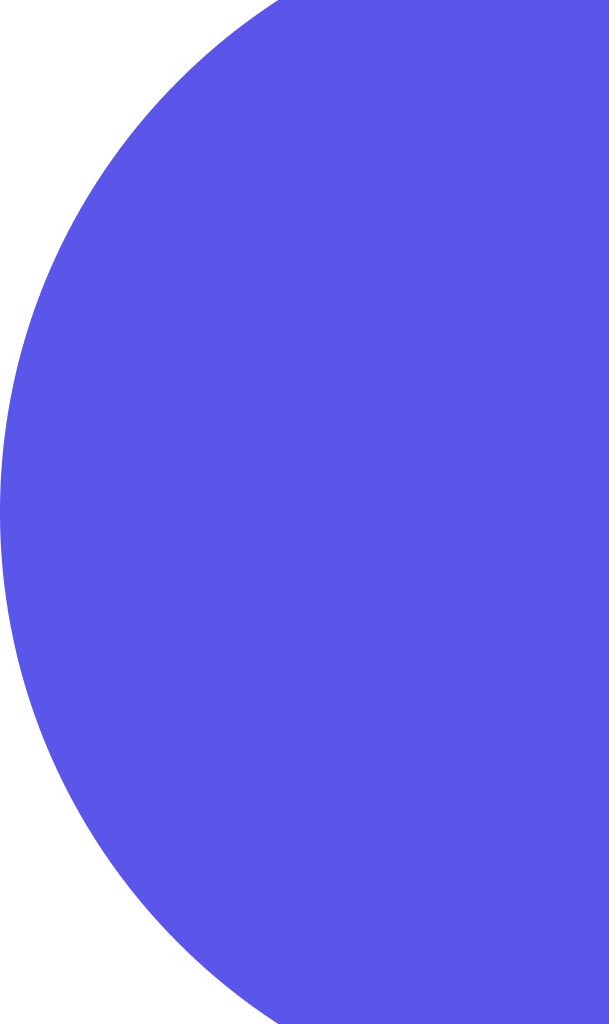
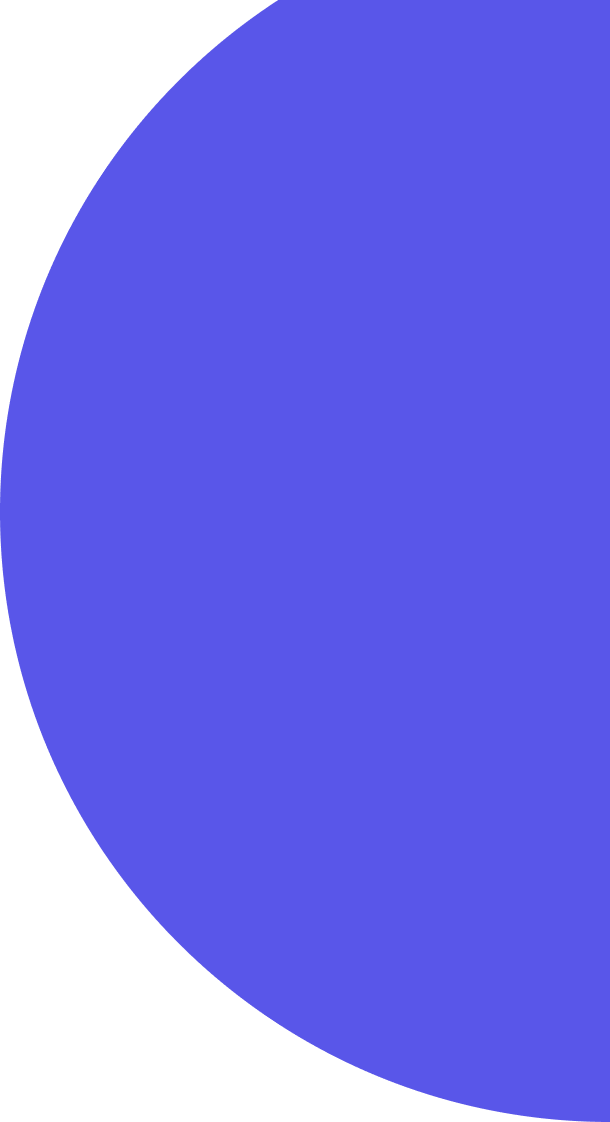
fix: position elements

diff --git a/sass/style/main.css b/sass/style/main.css
@@ -192,11 +192,13 @@
   padding: 5px 10px;
   outline: none;
   font-size: 14px;
+  z-index: 2;
 }
 .fullPage .navBarSection .navbar .rightNav .searchDiv i {
   font-size: 20px;
   cursor: pointer;
   color: white;
+  z-index: 2;
 }
 .fullPage .navBarSection .navbar .rightNav #getStart {
   border-radius: 20px;
@@ -211,6 +213,7 @@
   cursor: pointer;
   text-decoration: none;
   transition: all 0.3s ease-in-out;
+  z-index: 2;
 }
 .fullPage .navBarSection .navbar .rightNav #getStart:hover {
   opacity: 0.8;
@@ -307,23 +310,26 @@
 }
 .fullPage main .mainSection .rightContent img:first-child {
   margin-bottom: 220px;
-  z-index: 2;
+  z-index: 3;
 }
 .fullPage main .mainSection .rightContent img:nth-child(2) {
   position: absolute;
   margin-top: 220px;
   margin-left: 70px;
+  z-index: 2;
 }
 .fullPage main .mainSection .rightContent img:nth-child(3) {
   position: absolute;
   margin-bottom: 160px;
   margin-left: -70px;
   bottom: 0;
+  z-index: 2;
 }
 .fullPage main .mainSection .rightContent img:last-child {
   position: absolute;
   bottom: 163px;
   margin-left: 350px;
+  z-index: 2;
 }
 .fullPage main .mainSection #circlePinkLittle {
   position: absolute;
@@ -332,8 +338,9 @@
 }
 .fullPage main .mainSection #circleBottmPink {
   position: absolute;
-  bottom: -98px;
+  bottom: -170px;
   right: 360px;
+  z-index: 10;
 }
 .fullPage main .mainSection #circleYellowMain {
   position: absolute;
@@ -343,6 +350,7 @@
   position: absolute;
   bottom: 266px;
   right: 40px;
+  z-index: 2;
 }
 .fullPage main .mainSection #circleBlueMain {
   position: absolute;
@@ -432,6 +440,7 @@
   flex-direction: column;
   justify-content: center;
   align-items: start;
+  border: 2px solid #27272E;
 }
 .fullPage #designToolSection .designTool .toolTopTexts .swiper .swiper-slide h4 {
   padding: 42px 0 33px 0;
@@ -454,6 +463,9 @@
   opacity: 0.5;
   color: #fff;
   text-decoration: none;
+}
+.fullPage #designToolSection .designTool .toolTopTexts .swiper .swiper-slide:hover {
+  border-top: 2px solid #FFBABA;
 }
 .fullPage #designToolSection .designTool .toolTopTexts .swiper .swiper-slide:hover a {
   opacity: 1;

diff --git a/sass/_layout.scss b/sass/_layout.scss
@@ -143,15 +143,18 @@
             padding: 5px 10px;
             outline: none;
             font-size: 14px;
+            z-index: 2;
           }
           i {
             font-size: 20px;
             cursor: pointer;
             color: white;
+            z-index: 2;
           }
         }
         #getStart {
           @include btnPink(20px, 47px);
+          z-index: 2;
         }
       }
     }
@@ -223,23 +226,26 @@
           &:first-child {
             margin-bottom: 220px;
             // position: absolute;
-            z-index: 2;
+            z-index: 3;
           }
           &:nth-child(2) {
             position: absolute;
             margin-top: 220px;
             margin-left: 70px;
+            z-index: 2;
           }
           &:nth-child(3) {
             position: absolute;
             margin-bottom: 160px;
             margin-left: -70px;
             bottom: 0;
+            z-index: 2;
           }
           &:last-child {
             position: absolute;
             bottom: 163px;
             margin-left: 350px;
+            z-index: 2;
           }
         }
       }
@@ -250,8 +256,9 @@
       }
       #circleBottmPink {
         position: absolute;
-        bottom: -98px;
+        bottom: -170px;
         right: 360px;
+        z-index: 10;
       }
       #circleYellowMain {
         position: absolute;
@@ -261,6 +268,7 @@
         position: absolute;
         bottom: 266px;
         right: 40px;
+        z-index: 2;
       }
       #circleBlueMain {
         position: absolute;
@@ -350,6 +358,7 @@
             flex-direction: column;
             justify-content: center;
             align-items: start;
+            border: 2px solid #27272E;
             h4 {
               padding: 42px 0 33px 0;
               font-size: 24px;
@@ -377,6 +386,7 @@
                 a{
                     opacity: 1;
                 }
+                border-top: 2px solid #FFBABA;
             }
           }
           .swiper-pagination-bullet{

diff --git a/pages/home.html b/pages/home.html
@@ -40,7 +40,7 @@
           src="../images/headerCircleBcImg.png"
           alt="headerCircleBcImg"
           loading="lazy"
-          style="position: absolute; z-index: -1; right: 0"
+          style="position: absolute; z-index: 2; right: 0"
         />
         <div class="container">
           <div class="navbar">
@@ -371,7 +371,12 @@
           </div>
         </div>
       </section>
-      <!--  -->
+      <!-- sign up section -->
+      <section id="signUpSection">
+        <div class="container">
+            <div class="signUp"></div>
+        </div>
+      </section>
     </div>
     <script src="../js/index.js" type="module"></script>
   </body>
